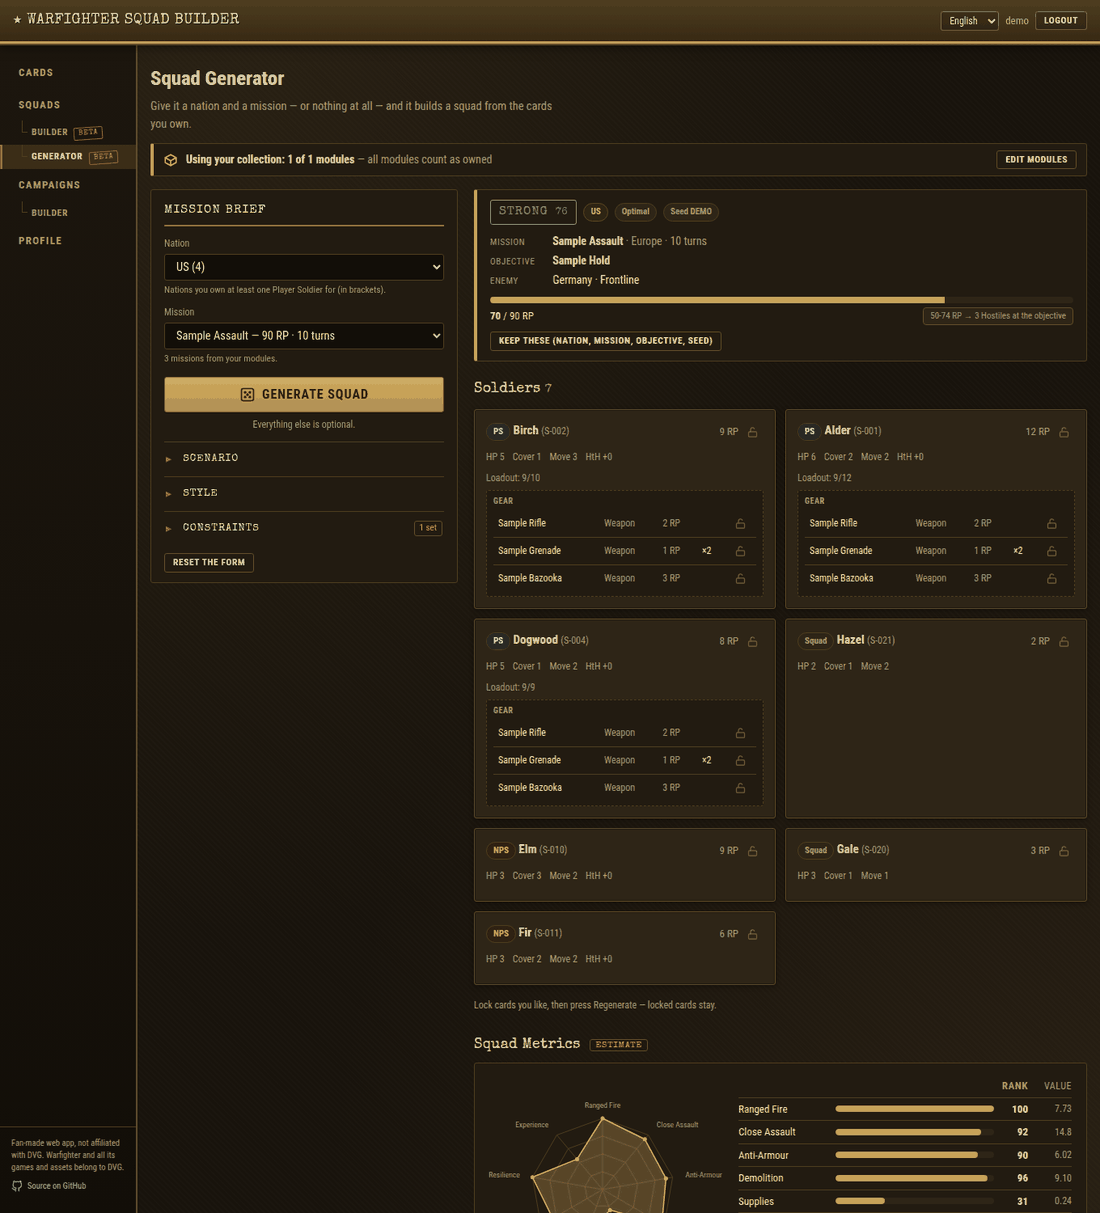
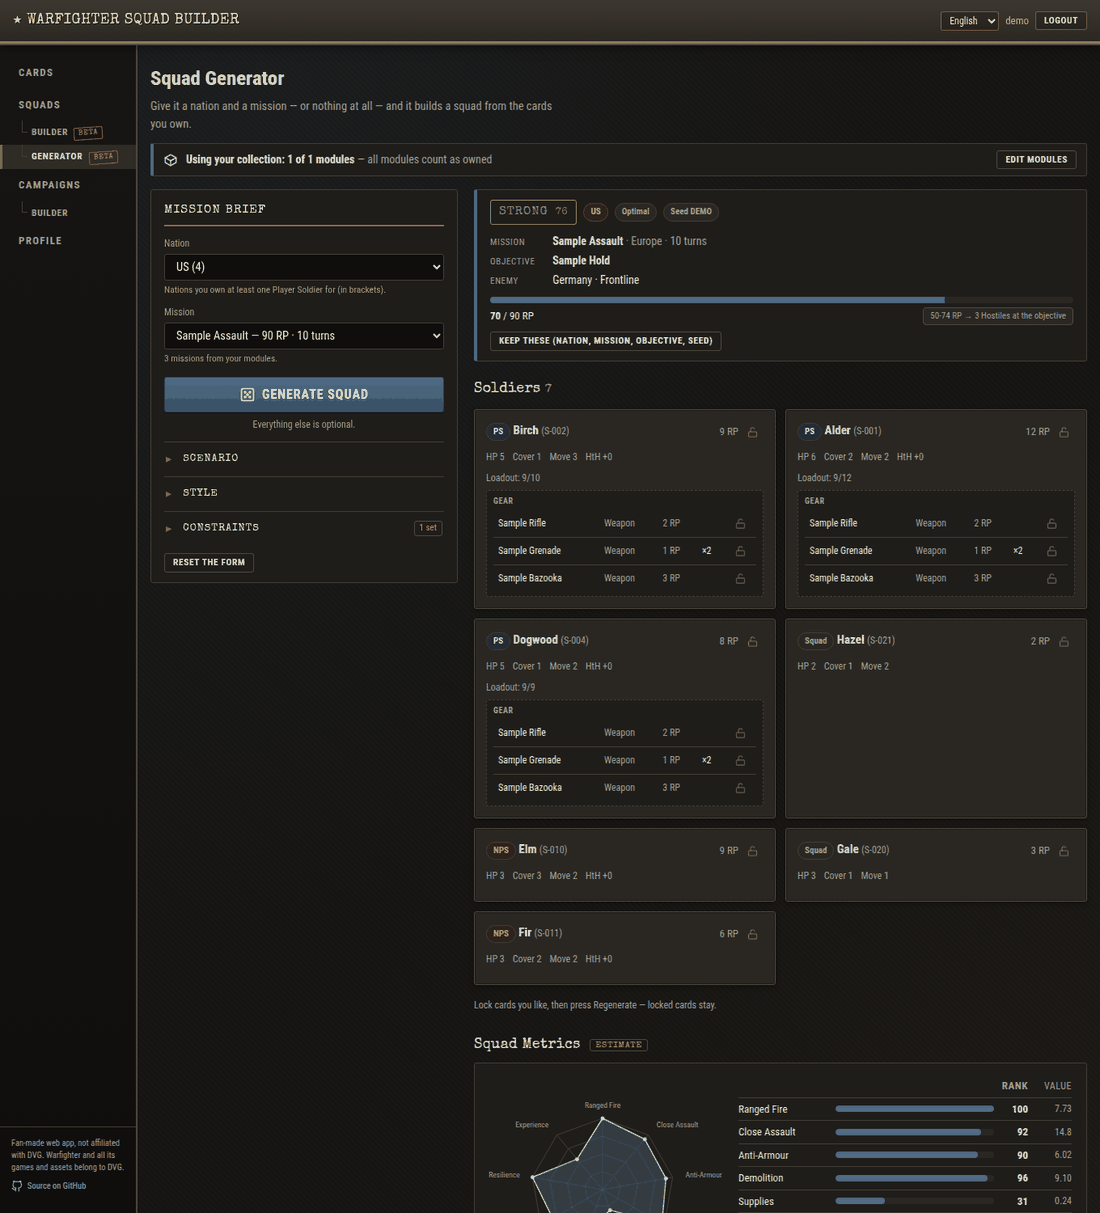
UI: less yellow — neutral warm-charcoal surfaces and borders, muted navy for actions and charts; card-art mustard/tan kept only as thin accents (header stripe, title rules, Mission badge); contrast checked, README screenshot refreshed

diff --git a/static/style.css b/static/style.css
@@ -4,29 +4,30 @@
    ===================================================================== */
 
 :root {
-  /* Warfighter palette — extracted from the card art itself (soldier + mission cards):
-     dark umber borders, mustard / ochre title banner, tan map-paper, khaki + cream notes, olive drab (minor).
-     Emphasis uses "rubber-stamp ink" colours: faded blue (links), red (danger), green (success). */
-  --bg: #18130c;            /* umber-black */
-  --surface: #221b11;
-  --surface2: #2e2517;
-  --border: #4e3e1f;        /* card border brown */
-  --text: #ecdcbf;          /* card cream */
-  --text-muted: #a99a78;    /* khaki, aged */
-  --accent: #c4a055;        /* mission-banner mustard */
-  --accent-hover: #d3b068;
-  --accent-light: #ddb764;
-  --on-accent: #2a1f10;     /* ink on mustard */
+  /* Warfighter palette. Neutral warm charcoal for the big areas; muted navy for actions and charts;
+     card-art mustard / tan used sparingly (header stripe, title rules, Mission badge);
+     "rubber-stamp ink" colours (blue links, red danger, green success) for emphasis. */
+  --bg: #151412;
+  --surface: #1f1d1a;
+  --surface2: #2a2723;
+  --border: #433e36;
+  --text: #e8e4da;          /* off-white paper */
+  --text-muted: #a39d90;    /* faded khaki-grey */
+  --accent: #4f6a84;        /* muted navy / field blue */
+  --accent-hover: #5f7d99;
+  --accent-light: #a9bfd3;
+  --on-accent: #fbf8ef;
   --danger: #b04a2f;        /* red stamp */
   --danger-hover: #d9694a;
   --warning: #e29a3c;
   --warning-bg: #2f2412;
   --success: #7fa86a;       /* green stamp */
-  --link: #8fb0cc;          /* faded blue stamp ink */
-  --olive: #8d863e;         /* soldier-card olive (minor accent) */
+  --link: #94b4d0;          /* faded blue stamp ink */
+  --stripe: #a98a4c;        /* mission-banner mustard, as a thin accent only */
+  --olive: #8d863e;
   --kraft: #8d6c3b;         /* tan frame */
-  --kraft-dark: #614c28;
-  --paper: #ecdcbf;
+  --kraft-dark: #504b42;
+  --paper: #e8e0cc;
   --paper-edge: #c2b68c;
   --ink: #2a1f10;
   --font-type: 'Special Elite', 'Courier New', monospace;
@@ -768,7 +769,7 @@ tr.picker-row-selected td:first-child::before { content: '✓ '; color: var(--ac
 }
 .quick-filter:hover { background: var(--border); color: var(--text); }
 .quick-filter.active { background: #3a1a1a; border-color: var(--danger); color: var(--danger); }
-.quick-filter.active-accent { background: #2d2416; border-color: var(--accent); color: var(--accent-light); }
+.quick-filter.active-accent { background: #222a33; border-color: var(--accent); color: var(--accent-light); }
 .quick-filter.active-purple { background: #2a1a3a; border-color: #9b59b6; color: #c39bd3; }
 .quick-filter.active-blue { background: #14263a; border-color: #3498db; color: #85c1e9; }
 
@@ -1205,14 +1206,14 @@ tr.picker-row-selected td:first-child::before { content: '✓ '; color: var(--ac
 
 
 /* =====================================================================
-   Warfighter theme — game look (card browns, mustard, kraft paper, parchment labels,
+   Warfighter theme — game look (charcoal, navy, kraft paper, parchment labels,
    typewriter text, rubber stamps). Overrides the base rules above.
    ===================================================================== */
 body {
   background-color: var(--bg);
   background-image:
-    radial-gradient(ellipse at 20% 0%, rgba(196, 160, 85, .10), transparent 55%),
-    radial-gradient(ellipse at 100% 100%, rgba(160, 122, 74, .12), transparent 50%),
+    radial-gradient(ellipse at 20% 0%, rgba(79, 106, 132, .10), transparent 55%),
+    radial-gradient(ellipse at 100% 100%, rgba(160, 122, 74, .05), transparent 50%),
     repeating-linear-gradient(45deg, rgba(255, 255, 255, .012) 0 2px, transparent 2px 5px);
   background-attachment: fixed;
 }
@@ -1240,28 +1241,28 @@ h1.page-title, .squad-title, #app-main > h1, #app-main > .flex > h1, .auth-form-
   display: inline-block;
 }
 
-/* Header: card-border brown with a mustard stripe */
+/* Header: dark charcoal with a thin mustard stripe */
 #app-header {
-  background: linear-gradient(180deg, #4e3e1f 0%, #382913 100%);
-  border-bottom: 3px solid var(--accent);
+  background: linear-gradient(180deg, #3d382f 0%, #2b2721 100%);
+  border-bottom: 3px solid var(--stripe);
   box-shadow: 0 2px 0 var(--kraft-dark), 0 4px 12px rgba(0, 0, 0, .5);
 }
 .header-brand { color: var(--paper); font-size: 1.15rem; text-shadow: 1px 1px 0 rgba(0, 0, 0, .55); }
 #header-auth .username { color: var(--paper-edge); }
 #app-header .btn-ghost, #app-header select { border-color: rgba(236, 226, 198, .35); background: rgba(0, 0, 0, .18); color: var(--paper); }
 
-/* Sidebar: dark umber with stencil nav */
+/* Sidebar: dark charcoal with stencil nav */
 #sidebar {
-  background: linear-gradient(180deg, #1c160e, #120e08);
+  background: linear-gradient(180deg, #161513, #0f0e0d);
   border-right: 2px solid var(--kraft-dark);
 }
 #sidebar .nav-link {
   font-size: 13px; font-weight: 700; letter-spacing: .1em; text-transform: uppercase; color: var(--text-muted);
 }
 #sidebar .nav-link.nav-sub { font-size: 11.5px; letter-spacing: .06em; }
-#sidebar .nav-link:hover { color: var(--paper); background: rgba(160, 122, 74, .12); }
+#sidebar .nav-link:hover { color: var(--paper); background: rgba(255, 255, 255, .05); }
 #sidebar .nav-link.active {
-  color: var(--paper); background: #3a2d17;
+  color: var(--paper); background: #2f2b25;
   border-left-color: var(--kraft);
 }
 
@@ -1278,18 +1279,18 @@ h1.page-title, .squad-title, #app-main > h1, #app-main > .flex > h1, .auth-form-
 .btn { border-radius: var(--radius); font-weight: 700; letter-spacing: .05em; text-transform: uppercase; font-size: 12.5px; }
 .btn-sm { font-size: 11.5px; }
 .btn-primary {
-  background: linear-gradient(180deg, #d1ae63, #b38d47); color: var(--on-accent); font-weight: 700;
-  border: 1px solid #7a5c2c; box-shadow: inset 0 1px 0 rgba(255, 255, 255, .12), 0 1px 0 rgba(0, 0, 0, .4);
+  background: linear-gradient(180deg, #4f6a84, #3b5167); color: var(--on-accent); font-weight: 700;
+  border: 1px solid #2b3b4b; box-shadow: inset 0 1px 0 rgba(255, 255, 255, .12), 0 1px 0 rgba(0, 0, 0, .4);
 }
-.btn-primary:hover { background: linear-gradient(180deg, #dcbb74, #c19a52); }
+.btn-primary:hover { background: linear-gradient(180deg, #587590, #415b73); }
 .btn-ghost { border-color: var(--kraft-dark); color: var(--text); }
-.btn-ghost:hover { background: rgba(160, 122, 74, .14); border-color: var(--kraft); }
+.btn-ghost:hover { background: rgba(255, 255, 255, .06); border-color: var(--text-muted); }
 .btn-danger { background: var(--danger); color: var(--paper); }
 .btn-icon { text-transform: none; }
 .page-toolbar { border-bottom-color: var(--kraft-dark); }
 
 /* Inputs */
-input, select, textarea { background: #120e08; border-color: var(--border); color: var(--text); }
+input, select, textarea { background: #0f0e0d; border-color: var(--border); color: var(--text); }
 input::placeholder, textarea::placeholder { color: #6f6852; }
 input:focus, select:focus, textarea:focus { outline-color: var(--kraft); }
 
@@ -1302,13 +1303,13 @@ input:focus, select:focus, textarea:focus { outline-color: var(--kraft); }
 .ce-section h2, .profile-section h2 {
   color: var(--paper); border-bottom: 1px dashed var(--kraft-dark); padding-bottom: 6px;
 }
-.modal { background: linear-gradient(180deg, #2a2216, var(--surface)); border-width: 2px; }
+.modal { background: linear-gradient(180deg, #26231f, var(--surface)); border-width: 2px; }
 .modal h2 { color: var(--paper); }
 .stat-item, .mission-attr { border-color: var(--kraft-dark); }
 
 /* Tables: dark olive header strip */
 .data-table th {
-  background: #3a2d17;
+  background: #2f2b25;
   color: var(--accent-light); text-transform: uppercase; font-size: 11.5px; font-weight: 700; letter-spacing: .07em;
   border-bottom: 2px solid var(--kraft-dark);
 }
@@ -1316,7 +1317,7 @@ input:focus, select:focus, textarea:focus { outline-color: var(--kraft); }
 .data-table .sort-header.sort-active { color: var(--link); }
 .data-table td { border-bottom-color: rgba(107, 82, 51, .45); }
 .data-table tbody tr:nth-child(even) { background: rgba(255, 255, 255, .015); }
-.data-table tbody tr:hover { background: rgba(196, 160, 85, .10); }
+.data-table tbody tr:hover { background: rgba(79, 106, 132, .10); }
 
 /* Quick filters and tabs */
 .quick-filter { border-radius: 2px; text-transform: uppercase; letter-spacing: .05em; font-weight: 700; font-size: 11.5px; }
@@ -1374,7 +1375,7 @@ input:focus, select:focus, textarea:focus { outline-color: var(--kraft); }
 .metrics-radar { width: 280px; max-width: 100%; flex: 0 0 auto; overflow: visible; }
 .mr-ring { fill: none; stroke: var(--border); stroke-width: 1; }
 .mr-spoke { stroke: var(--border); stroke-width: 1; }
-.mr-shape { fill: rgba(196, 160, 85, .35); stroke: var(--accent-light); stroke-width: 1.5; stroke-linejoin: round; }
+.mr-shape { fill: rgba(79, 106, 132, .40); stroke: var(--accent-light); stroke-width: 1.5; stroke-linejoin: round; }
 .mr-dot { fill: var(--accent-light); }
 .mr-label { fill: var(--text-muted); font-size: 9.5px; font-family: var(--font-body); }
 .metrics-list-wrap { flex: 1 1 280px; min-width: 240px; }
@@ -1459,7 +1460,7 @@ input:focus, select:focus, textarea:focus { outline-color: var(--kraft); }
   background: var(--surface2); color: var(--text); border: 1px solid var(--border); border-top: 0; padding: 6px 8px;
 }
 .gen-pick-item:first-child { border-top: 1px solid var(--border); }
-.gen-pick-item:hover { background: #3a2f1d; }
+.gen-pick-item:hover { background: #34302a; }
 
 .gen-result { min-width: 0; }
 .gen-empty {
